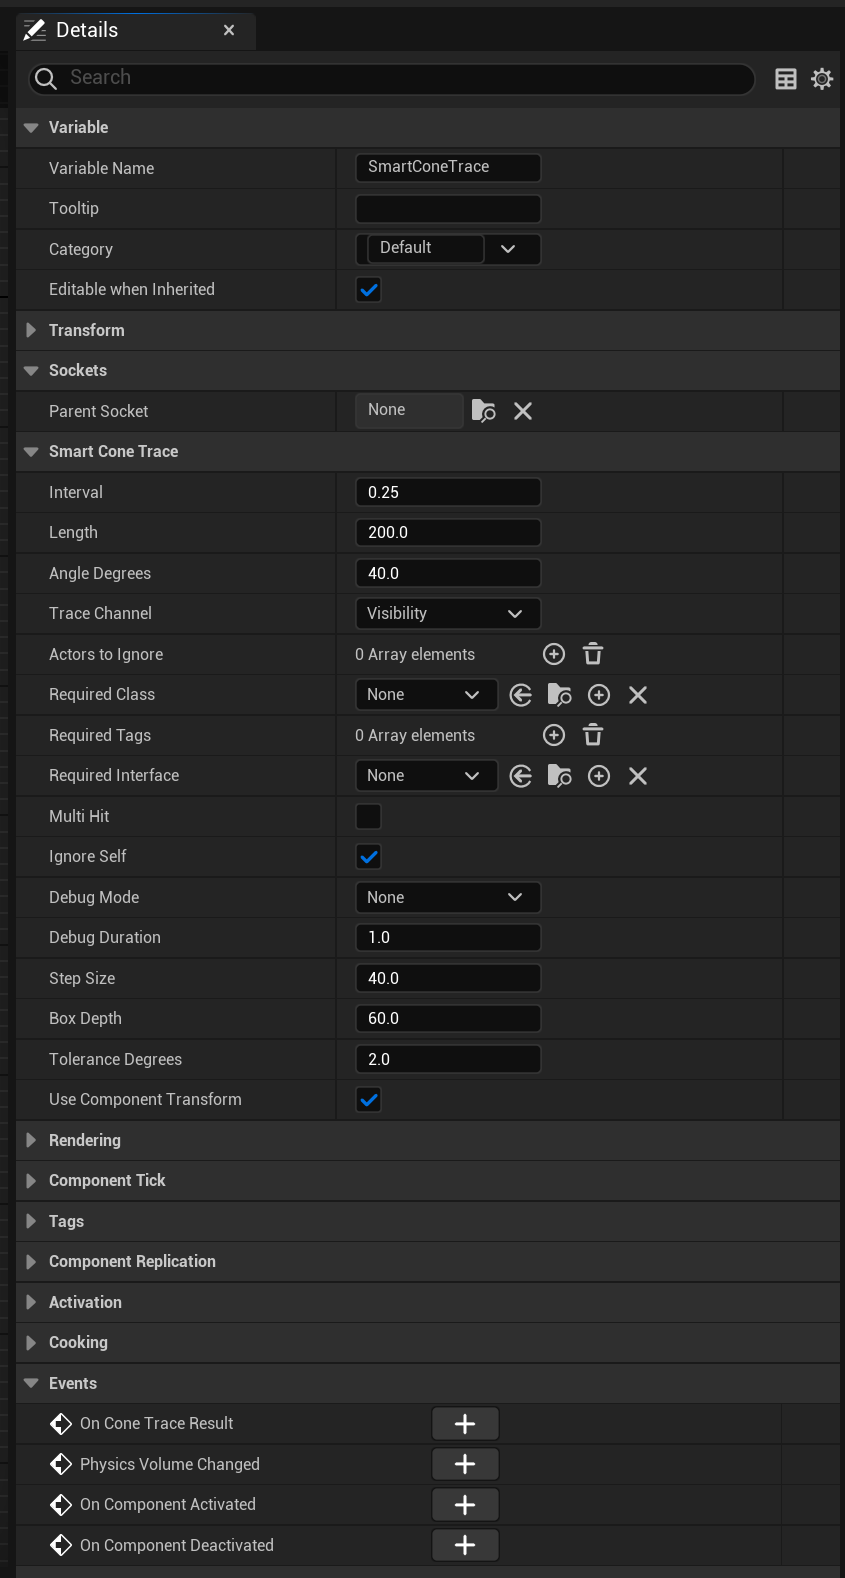
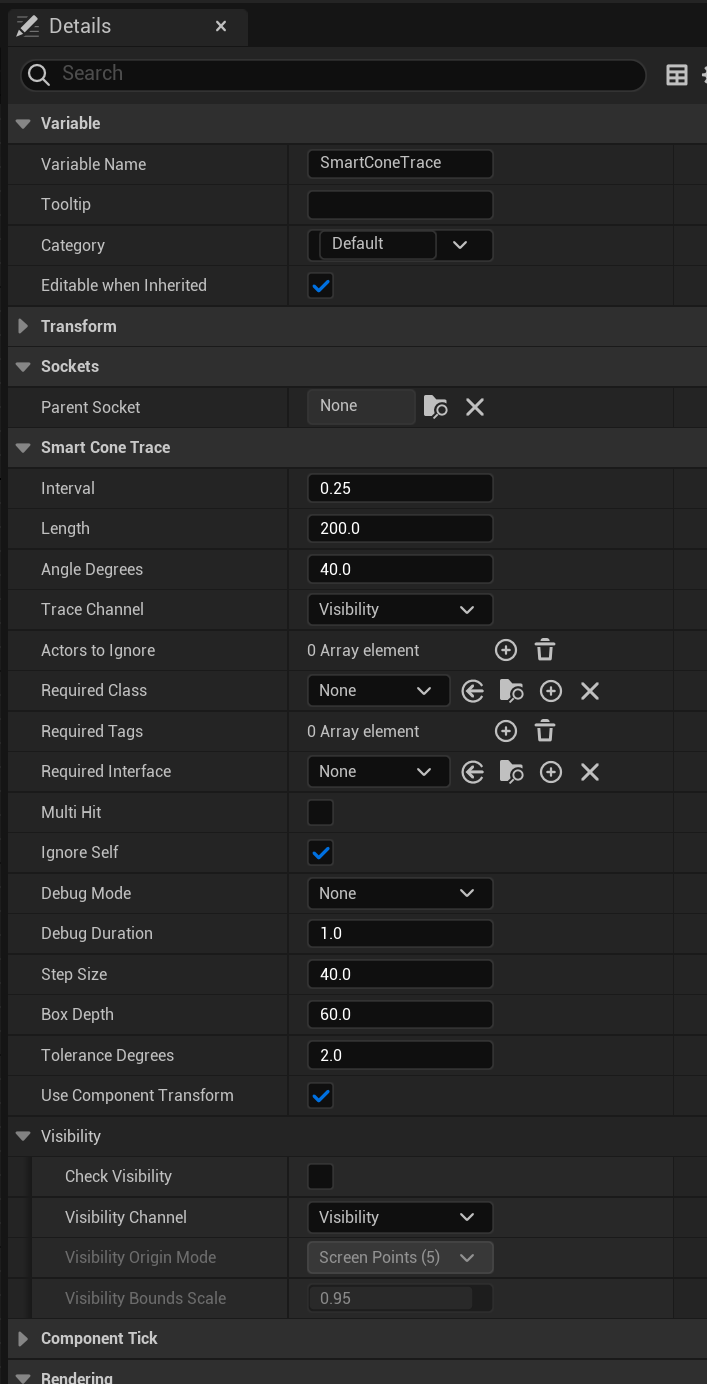
Update doc

diff --git a/docs/SmartConeTrace/reference.md b/docs/SmartConeTrace/reference.md
@@ -24,6 +24,10 @@ This is a complete reference for all parameters, structures, functions, and enum
 | `BoxDepth`               | `float`                | `60.0`      |
 | `ToleranceDegrees`       | `float`                | `2.0`       |
 | `bUseComponentTransform` | `bool`                 | `true`      |
+| `bCheckVisibility`       | `bool`                 | `false`     |
+| `VisibilityChannel`      | `ETraceTypeQuery`      | `TraceTypeQuery1` |
+| `VisibilityOriginMode`   | `EVisibilityOriginMode`| `ScreenPoints`|
+| `VisibilityBoundsScale`  | `float`                | `0.95`      |
 
 **ℹ Note:** `ActorsToIgnore` only accepts actors that are already placed in the level.  
 [Learn more about this limitation →](usage.md#i-about-actorstoignore)
@@ -32,12 +36,13 @@ This is a complete reference for all parameters, structures, functions, and enum
 
 ## 📦 Struct: `FSmartConeTraceResult`
 
-| Field         | Type               | Description                         |
-|---------------|--------------------|-------------------------------------|
-| `bDidHit`     | `bool`             | `true` if anything was hit          |
-| `Hits`        | `Array<HitResult>` | All valid hits (filtered)           |
-| `HitActors`   | `Array<Actor>`     | All valid hit actors                |
-| `ClosestHit`  | `HitResult`        | Closest valid hit                   |
+| Field          | Type               | Description                         |
+|----------------|--------------------|-------------------------------------|
+| `bDidHit`      | `bool`             | `true` if anything was hit          |
+| `Hits`         | `Array<HitResult>` | All valid hits (filtered)           |
+| `HitActors`    | `Array<Actor>`     | All valid hit actors                |
+| `ClosestHit`   | `HitResult`        | Closest valid hit                   |
+| `VisibleActors`| `Array`            | Actors that passed the visibility (line-of-sight) check. Empty if `bCheckVisibility` is false.|
 
 ---
 
@@ -65,6 +70,9 @@ Defined in: `SmartConeTraceLib`
 | `StepSize`            | `float`                 | ❌       | Distance between trace steps        |
 | `BoxDepth`            | `float`                 | ❌       | Depth of each trace box             |
 | `ToleranceDegrees`    | `float`                 | ❌       | Extra angular tolerance             |
+| `bCheckVisibility`    | `bool`                  | ❌       | Enable line-of-sight checks         |
+| `VisibilityOriginMode`| `EVisibilityOriginMode` | ❌       | Start point of visibility traces    |
+| `VisibilityBoundsScale`| `float`                | ❌       | Scale of target bounds to trace against|
 
 ---
 
@@ -90,6 +98,8 @@ All helper functions work with the `FSmartConeTraceResult` struct.
 | `WasActorHit(Result, Actor)`      | `bool`           | `true` if that actor was hit       |
 | `IsValidHit(Result)`              | `bool`           | `true` if any valid hit exists     |
 | `GetHitActorsByClass(Result, Class)` | `Array<Actor>` | Filters hit actors by class        |
+| `GetVisibleActors(Result)`        | `Array<Actor>`   | Returns only actors that passed the visibility check|
+| `IsActorVisible(Result, Actor)`   | `bool`           | Returns true if the actor is in the VisibleActors list|
 
 ---
 
@@ -102,6 +112,18 @@ Used to control debug visualization.
 | `None`    | No visual debug                           |
 | `Basic`   | Hit lines and impact points               |
 | `Full`    | Full cone shape: lines, boxes, points     |
+
+---
+
+## 🧾 Enum: `EVisibilityOriginMode`
+
+Determines the starting point for visibility raycasts.
+
+| Value         | Description                                                          |
+|---------------|----------------------------------------------------------------------|
+| `ScreenPoints`| Traces from the camera (Center + 4 corners). Best for "Player Vision"|
+| `ScreenCenter`| Traces from the exact center of the screen (Crosshair)               |
+| `ConeStart`   | Traces from the cone's origin. Best for "AI Vision" or sensors       |
 
 ---
 

diff --git a/docs/SmartConeTrace/usage.md b/docs/SmartConeTrace/usage.md
@@ -43,9 +43,28 @@ All settings can be adjusted in the Details panel.
 | `BoxDepth`               | Length of each individual box trace. |
 | `ToleranceDegrees`       | Extra angle margin to accept hits slightly outside the cone. |
 | `bUseComponentTransform` | If `true`, the trace starts from the component's position and direction. If `false`, uses the actor’s transform. |
+| **`bCheckVisibility`** | If `true`, performs line-of-sight checks on hit actors to ensure they aren't behind walls. |
+| **`VisibilityOriginMode`** | Where visibility traces start (`ScreenPoints`, `ScreenCenter`, or `ConeStart`). |
 
 ![Details panel with all properties visible](images/usage_SCREENSHOT_2.png)  
 *Details panel showing all parameters of the `SmartConeTrace` component.*
+
+---
+
+## 👁 Visibility & Line of Sight
+
+By default, a cone trace will hit actors even if they are behind walls (because it checks for shape overlap). To prevent this, enable **`bCheckVisibility`**.
+
+When enabled, the plugin performs secondary line traces against every actor found in the cone:
+
+1.  **Origin:** Traces start from the Camera (if set to `ScreenPoints`) or the Cone Origin (if set to `ConeStart`).
+2.  **Target:** Traces end at the target actor's center and 8 corners of its bounding box.
+3.  **Result:** If any trace reaches the target without being blocked by the `VisibilityChannel`, the actor is added to the **`VisibleActors`** list.
+
+**Usage Tips:**
+* **AI Vision:** Set `VisibilityOriginMode` to `ConeStart` so the AI checks visibility from its own eyes/sensor.
+* **Player Vision:** Set to `ScreenPoints` to ensure the player can actually see the object on screen.
+* **VisibilityBoundsScale:** Reduce this (e.g., 0.8) if you want to require more of the object to be visible to count as a "hit".
 
 ---
 
@@ -81,12 +100,13 @@ This event is triggered after each trace (if interval > 0). It gives you a `Smar
 
 ### 📦 SmartConeTraceResult Fields
 
-| Field        | Type               | Description |
-|--------------|--------------------|-------------|
-| `bDidHit`    | `bool`             | `true` if anything was hit. |
-| `Hits`       | `Array<HitResult>` | All filtered hits. |
-| `HitActors`  | `Array<Actor>`     | All valid actors that were hit. |
-| `ClosestHit` | `HitResult`        | The closest valid hit among all steps. |
+| Field           | Type               | Description |
+|-----------------|--------------------|-------------|
+| `bDidHit`       | `bool`             | `true` if anything was hit. |
+| `Hits`          | `Array<HitResult>` | All filtered hits. |
+| `HitActors`     | `Array<Actor>`     | All valid actors that were hit. |
+| `ClosestHit`    | `HitResult`        | The closest valid hit among all steps. |
+| `VisibleActors` | `Array<Actor>`     | Subset of HitActors that passed the line-of-sight check (requires `bCheckVisibility`).|
 
 ![Using result in Blueprint — print closest actor](images/usage_SCREENSHOT_3.png)  
 *Example of printing the name of the closest hit actor using the result.*
@@ -132,6 +152,8 @@ You can use these helper functions from `SmartConeTraceLib` to work with the res
 | `GetFirstValidHitActor(Result)` | Returns the first actor from the `HitActors` array. |
 | `GetHitActorsByClass(Result, Class)` | Filters hit actors by class. |
 | `IsValidHit(Result)`            | Returns `true` if `Result.bDidHit` is `true`. |
+| `GetVisibleActors(Result)`      | Returns array of actors visible via line-of-sight. |
+| `IsActorVisible(Result, Actor)` | Returns `true` if the actor passed the visibility check. |
 
 ![Blueprint calling GetClosestHitActor](images/usage_SCREENSHOT_6.png)  
 *Helper functions available in Blueprint for working with Smart Cone Trace results.*

diff --git a/docs/SmartConeTrace/quick-start.md b/docs/SmartConeTrace/quick-start.md
@@ -24,9 +24,10 @@ This guide will help you start using **Smart Cone Trace** in less than 2 minutes
    - `Interval` — how often the trace runs (e.g. every 0.25 seconds)
    - `Length` — how far the cone reaches
    - `AngleDegrees` — how wide the cone is
+   - `bCheckVisibility` — enable if you want to ignore objects behind walls
 
 ![Component added to Blueprint and settings panel](images/quick-start_SCREENSHOT_2.png)  
-*SmartConeTrace component selected, with editable parameters like Interval and Angle.*
+*SmartConeTrace component selected, with editable parameters like Interval, Angle, and Visibility settings.*
 
 ---
 
@@ -35,10 +36,10 @@ This guide will help you start using **Smart Cone Trace** in less than 2 minutes
 1. In the Components panel, right-click the **SmartConeTrace** component.
 2. Choose **Add Event → Add OnConeTraceResult**.
 
-This creates an event node that fires every time the trace runs.
+This creates an event node that fires every time the trace runs. You can access both **Hit Actors** (overlap) and **Visible Actors** (line-of-sight) from the result struct.
 
 ![Event node and handling logic in Blueprint](images/quick-start_SCREENSHOT_3.png)  
-*Example of using the OnConeTraceResult event to print the names of all hit actors.*
+*Example of using the OnConeTraceResult event to handle both Hit and Visible actors.*
 
 ---
 

diff --git a/docs/SmartConeTrace/examples.md b/docs/SmartConeTrace/examples.md
@@ -6,7 +6,8 @@ See Smart Cone Trace in a real-world Blueprint setup — using actor components,
 
 ## ▶ Watch the Demo
 
-🎥 <a href="https://youtu.be/DdDTlY605dc" target="_blank">Watch on YouTube</a>
+🎥 <a href="https://youtu.be/DdDTlY605dc" target="_blank">Watch on YouTube V1.0</a>
+🎥 <a href="https://youtu.be/w6bPGncPn-c" target="_blank">Watch on YouTube V1.1</a>
 
 In this demo, you'll see:
 
@@ -23,7 +24,7 @@ In this demo, you'll see:
 
 Try the exact project shown in the video:
 
-🔗 <a href="https://drive.google.com/file/d/1IhOfhfgEwXEqNAWH45OQX-M07HXVDtAF/view?usp=sharing" target="_blank">Download Demo Build (.zip)</a>
+🔗 <a href="https://drive.google.com/file/d/10DbIip9hQaxYcFPoechDhvckbUmndk4L/view?usp=sharing" target="_blank">Download Demo Build (.zip)</a>
 
 Includes:
 
@@ -63,6 +64,7 @@ Give enemies, drones, or creatures a cone-based field of view.
 Trigger alerts or behaviors when the player enters their line of sight.
 
 - Attach the component to AI characters
+- **Use `bCheckVisibility` to prevent seeing through walls**
 - Detect only specific actors (e.g. Characters with tag `"Player"`)
 - React through `OnConeTraceResult` in Blueprint
 

diff --git a/docs/SmartConeTrace/index.md b/docs/SmartConeTrace/index.md
@@ -8,6 +8,7 @@ It’s perfect for things like vision cones, ability areas, and AI detection zon
 - 🧩 Drop-in scene component  
 - 🔁 Runs automatically on a timer  
 - 🧠 Filters by tag, class, or interface  
+- 👁 **Built-in Visibility / Line-of-Sight checks**
 - 🔬 Optional debug visualization  
 
 <a href="https://fab.com/s/f30caa652090" target="_blank">Available on Unreal Engine Marketplace</a> – get the plugin, leave a review, and support future development!
@@ -31,6 +32,7 @@ You’ll be tracing in under 2 minutes.
 - A ready-to-use `SmartConeTrace` scene component  
 - A flexible `ConeTraceByChannel` Blueprint function  
 - Built-in filtering by tags, class, and interface  
+- **Visibility checks** to ignore objects behind walls
 - Accurate geometry with step-based tracing  
 - Full source code and visual debug support
 
